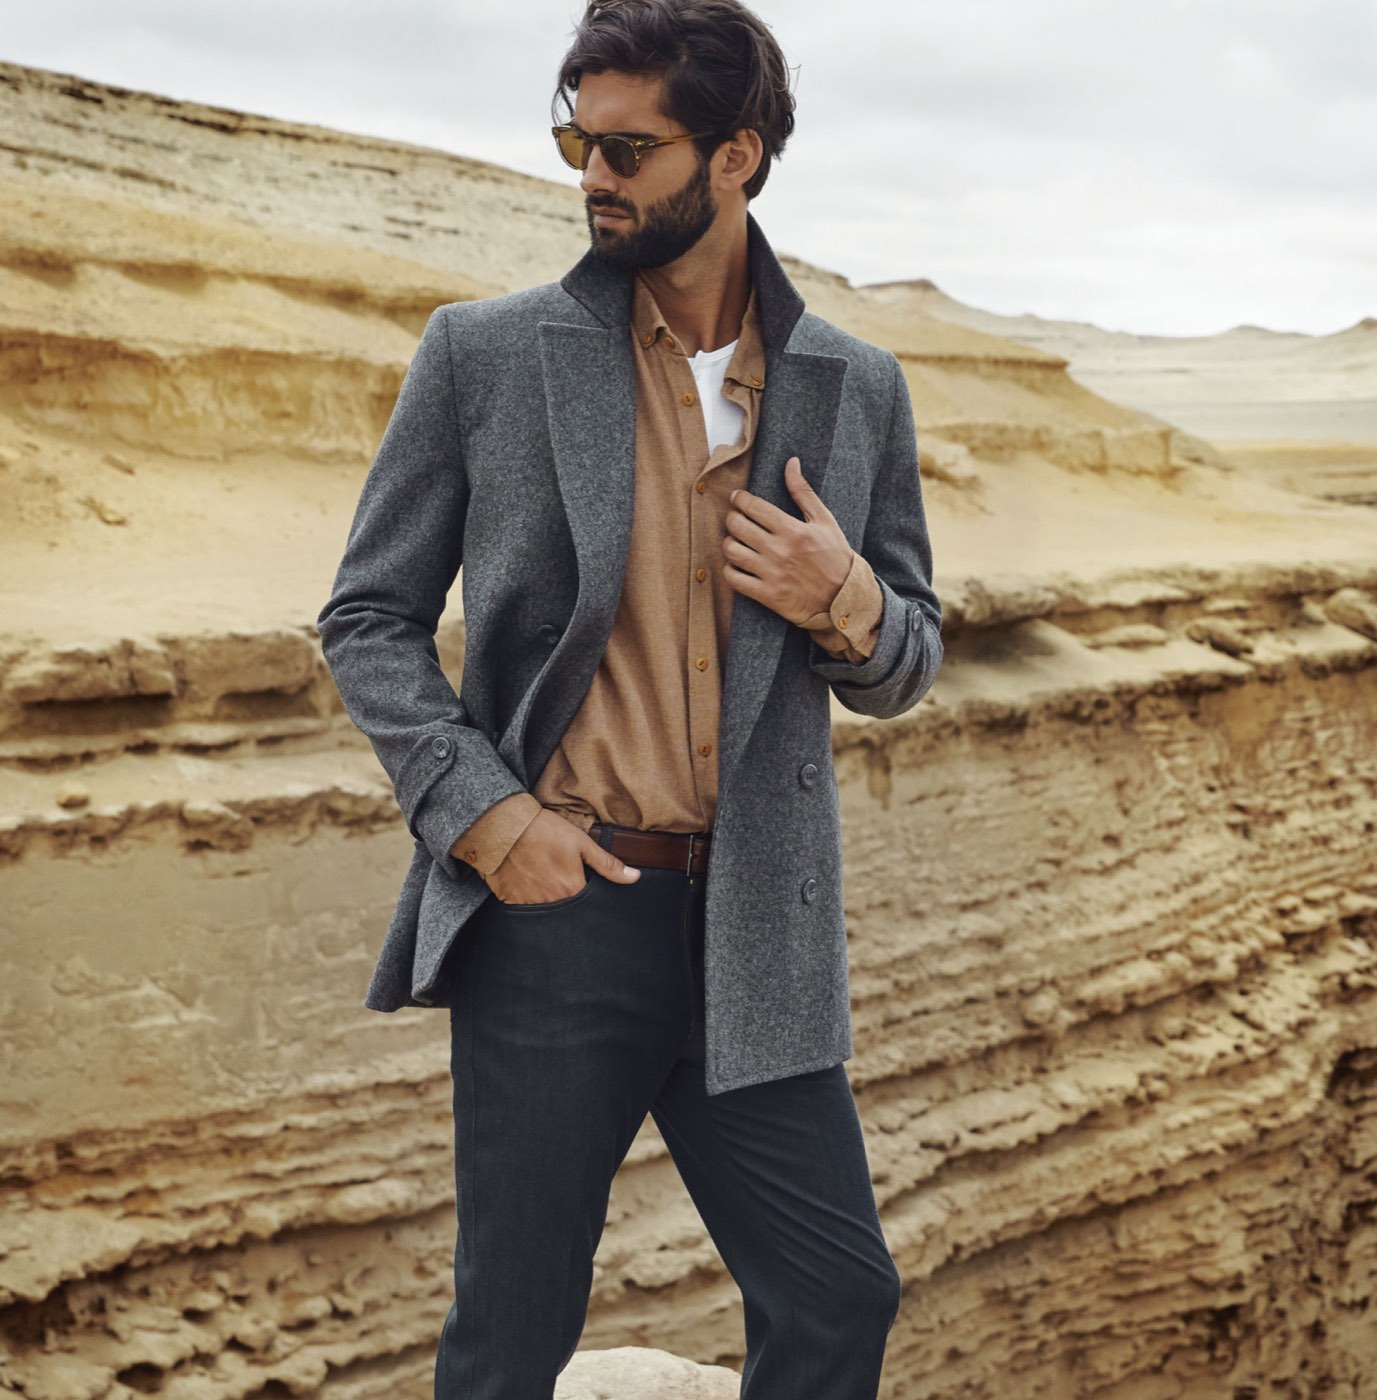
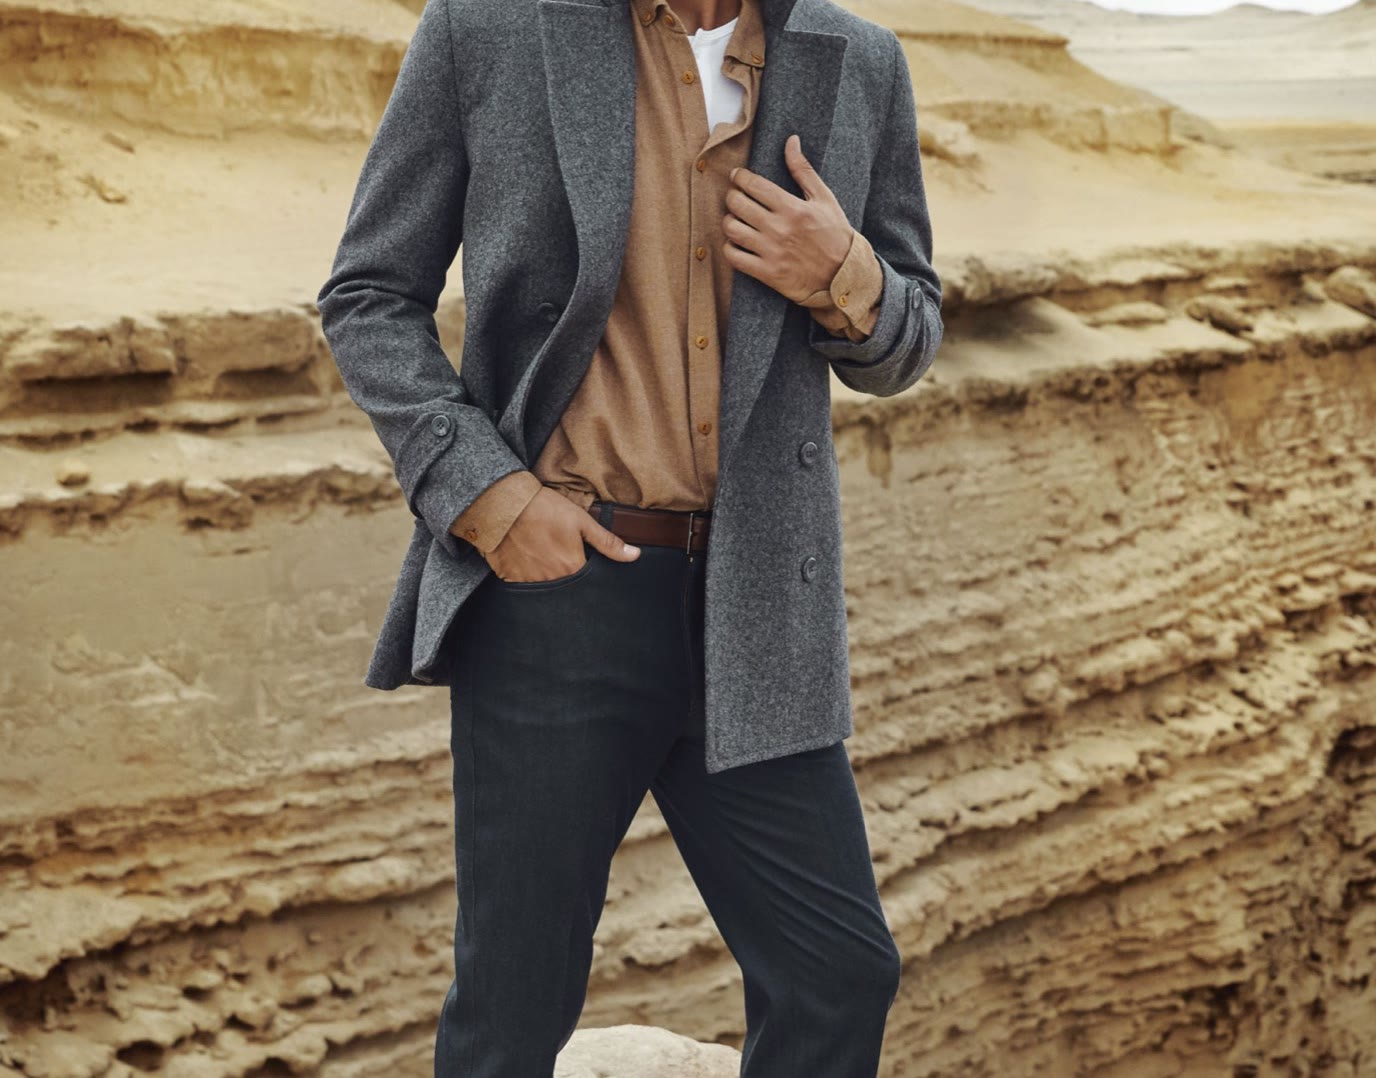
Recortar las cabezas de los modelos de los catálogos de Barrington
Las 14 fotos con persona pasan a mostrar solo la prenda: el corte va
justo bajo el mentón, conservando cuello, solapa y nudo de corbata, que
es lo que interesa de una foto de sastrería. Las tres macros de tejido
no llevan persona y quedan intactas.

El recorte va medido foto a foto, entre el 14% y el 31% del alto según
dónde caiga la barbilla, no con un porcentaje único.

Se actualizan las 17 declaraciones de width/height del HTML: si se
quedan con el alto viejo, el navegador reserva de más y la página salta
al cargar.

diff --git a/index.html b/index.html
@@ -1763,7 +1763,7 @@ body.tema-corporativo {
         <div style="margin-top:2rem;"><a href="/telas" class="enlace" data-ir="telas">Ver las telas</a></div>
       </div>
       <div class="rev" data-d="1">
-        <img src="assets/editorial/ed-blazer-azul.jpg" alt="Blazer azul a medida" loading="lazy" width="1328" height="1400">
+        <img src="assets/editorial/ed-blazer-azul.jpg" alt="Blazer azul a medida" loading="lazy" width="1328" height="1106">
       </div>
     </div>
   </section>
@@ -1897,7 +1897,7 @@ body.tema-corporativo {
       <div class="enc"><span class="rotulo">Diario</span><h2 class="t-xl">Del blog</h2></div>
       <div class="rejilla r3">
         <article class="nota rev" data-ir="blog">
-          <div class="nota-img"><img src="assets/editorial/ed-oficina-azul.jpg" alt="Terno azul a medida" loading="lazy" width="848" height="1400"></div>
+          <div class="nota-img"><img src="assets/editorial/ed-oficina-azul.jpg" alt="Terno azul a medida" loading="lazy" width="848" height="1106"></div>
           <div class="nota-cuerpo doble-filete"><span class="nota-meta">Guías</span><h3>Cómo elegir tu primer traje a medida</h3><p>Qué esperar de tu primera visita a la tienda.</p></div>
         </article>
         <article class="nota rev" data-d="1" data-ir="blog">
@@ -2138,7 +2138,7 @@ body.tema-corporativo {
           <div class="paso"><b>04</b><div><h3>Entrega</h3><p>Recibes la prenda terminada, lista para usar.</p></div></div>
         </div>
       </div>
-      <div class="rev foto-caja" data-d="1"><img src="assets/editorial/ed-oficina-camel.jpg" alt="Terno azul a medida con chaleco camel" loading="lazy" width="1364" height="1400"></div>
+      <div class="rev foto-caja" data-d="1"><img src="assets/editorial/ed-oficina-camel.jpg" alt="Terno azul a medida con chaleco camel" loading="lazy" width="1364" height="1050"></div>
     </div>
   </section>
 
@@ -2151,7 +2151,7 @@ body.tema-corporativo {
 
   <!-- Cierre -->
   <section class="cierre sobre-azul">
-    <img class="cierre-img" src="assets/editorial/ed-abrigo-alpaca.jpg" alt="" loading="lazy" width="990" height="1400">
+    <img class="cierre-img" src="assets/editorial/ed-abrigo-alpaca.jpg" alt="" loading="lazy" width="990" height="1204">
     <div class="cierre-velo"></div>
     <div class="caja cierre-inner">
       <div class="marca-div"><i></i><img src="assets/escudo-blanco.png" alt="" loading="lazy" width="261" height="420"><i></i></div>
@@ -2205,7 +2205,7 @@ body.tema-corporativo {
 
   <section class="seccion fondo-nube">
     <div class="caja dos-col">
-      <div class="rev"><img src="assets/editorial/ed-gala-pinstripe.jpg" alt="Traje cruzado a rayas a medida" loading="lazy" width="990" height="1400"></div>
+      <div class="rev"><img src="assets/editorial/ed-gala-pinstripe.jpg" alt="Traje cruzado a rayas a medida" loading="lazy" width="990" height="1120"></div>
       <div class="rev" data-d="1">
         <div class="marca-div izq"><i></i></div>
         <span class="rotulo">El proceso</span>
@@ -2656,7 +2656,7 @@ body.tema-corporativo {
           <a class="btn btn-linea" href="https://www.google.com/maps/search/?api=1&query=Av.+Primavera+252+Chacarilla+Santiago+de+Surco+Lima" target="_blank" rel="noopener">Cómo llegar</a>
         </div>
       </div>
-      <div class="rev" data-d="1"><img src="assets/editorial/ed-gala-pinstripe.jpg" alt="Traje cruzado a rayas a medida" loading="lazy" width="990" height="1400"></div>
+      <div class="rev" data-d="1"><img src="assets/editorial/ed-gala-pinstripe.jpg" alt="Traje cruzado a rayas a medida" loading="lazy" width="990" height="1120"></div>
     </div>
   </section>
 
@@ -2678,7 +2678,7 @@ body.tema-corporativo {
 <!-- ==================== CORPORATIVO ==================== -->
 <main class="pagina" data-pag="corporativo">
   <section class="pag-hero sobre-azul">
-    <img class="pag-hero-img" src="assets/editorial/ed-oficina-camel.jpg" alt="Vestuario formal a medida" style="object-position:50% 26%;" loading="lazy" width="1364" height="1400">
+    <img class="pag-hero-img" src="assets/editorial/ed-oficina-camel.jpg" alt="Vestuario formal a medida" style="object-position:50% 26%;" loading="lazy" width="1364" height="1050">
     <div class="pag-hero-velo"></div>
     <div class="caja">
       <div class="miga"><a href="/" data-ir="inicio">Inicio</a> · Corporativo</div>
@@ -2713,7 +2713,7 @@ body.tema-corporativo {
 
   <section class="seccion">
     <div class="caja dos-col">
-      <div class="rev"><img src="assets/editorial/ed-blazer-azul.jpg" alt="Blazer azul a medida" loading="lazy" width="1328" height="1400"></div>
+      <div class="rev"><img src="assets/editorial/ed-blazer-azul.jpg" alt="Blazer azul a medida" loading="lazy" width="1328" height="1106"></div>
       <div class="rev" data-d="1">
         <div class="marca-div izq"><i></i></div>
         <span class="rotulo">Coordinación</span>
@@ -2735,7 +2735,7 @@ body.tema-corporativo {
   </section>
 
   <section class="cierre sobre-azul">
-    <img class="cierre-img" src="assets/editorial/ed-abrigos.jpg" alt="" loading="lazy" width="989" height="1400">
+    <img class="cierre-img" src="assets/editorial/ed-abrigos.jpg" alt="" loading="lazy" width="988" height="1204">
     <div class="cierre-velo"></div>
     <div class="caja cierre-inner">
       <div class="marca-div"><i></i><img src="assets/escudo-blanco.png" alt="" loading="lazy" width="261" height="420"><i></i></div>
@@ -2764,7 +2764,7 @@ body.tema-corporativo {
 <!-- ============ CATÁLOGO DE TELAS ============ -->
 <main class="pagina" data-pag="catalogo">
   <section class="pag-hero sobre-azul">
-    <img class="pag-hero-img" src="assets/editorial/ed-sport-cuadros.jpg" alt="Telas para ternos a medida" style="object-position:50% 30%;" loading="lazy" width="990" height="1400">
+    <img class="pag-hero-img" src="assets/editorial/ed-sport-cuadros.jpg" alt="Telas para ternos a medida" style="object-position:50% 30%;" loading="lazy" width="990" height="1092">
     <div class="pag-hero-velo"></div>
     <div class="caja pag-hero-inner">
       <div class="miga"><a href="/" data-ir="inicio">Inicio</a> · <a href="/telas" data-ir="telas">Telas</a> · Catálogo</div>
@@ -2821,7 +2821,7 @@ body.tema-corporativo {
 
 <main class="pagina" data-pag="blog">
   <section class="pag-hero sobre-azul">
-    <img class="pag-hero-img" src="assets/editorial/ed-abrigo-paisaje.jpg" alt="Abrigo de paño a medida" style="object-position:50% 20%;" loading="lazy" width="1377" height="1400">
+    <img class="pag-hero-img" src="assets/editorial/ed-abrigo-paisaje.jpg" alt="Abrigo de paño a medida" style="object-position:50% 20%;" loading="lazy" width="1376" height="1078">
     <div class="pag-hero-velo"></div>
     <div class="caja">
       <div class="miga"><a href="/" data-ir="inicio">Inicio</a> · Blog</div>
@@ -2839,7 +2839,7 @@ body.tema-corporativo {
       </div>
       <div class="rejilla r3">
         <article class="nota rev">
-          <div class="nota-img"><img src="assets/editorial/ed-oficina-azul.jpg" alt="Terno azul a medida" loading="lazy" width="848" height="1400"></div>
+          <div class="nota-img"><img src="assets/editorial/ed-oficina-azul.jpg" alt="Terno azul a medida" loading="lazy" width="848" height="1106"></div>
           <div class="nota-cuerpo doble-filete"><span class="nota-meta">Guías · Próximamente</span><h3>Cómo elegir tu primer traje a medida</h3><p>Qué esperar de tu primera visita y cómo llegar preparado.</p></div>
         </article>
         <article class="nota rev" data-d="1">
@@ -2851,7 +2851,7 @@ body.tema-corporativo {
           <div class="nota-cuerpo doble-filete"><span class="nota-meta">Novios · Próximamente</span><h3>Calendario del novio: cuándo empezar</h3><p>Los tiempos reales para llegar tranquilo al día de la boda.</p></div>
         </article>
         <article class="nota rev">
-          <div class="nota-img"><img src="assets/editorial/ed-gala-pinstripe.jpg" alt="Traje cruzado a rayas" loading="lazy" width="990" height="1400"></div>
+          <div class="nota-img"><img src="assets/editorial/ed-gala-pinstripe.jpg" alt="Traje cruzado a rayas" loading="lazy" width="990" height="1120"></div>
           <div class="nota-cuerpo doble-filete"><span class="nota-meta">Estilo · Próximamente</span><h3>Etiqueta: qué se espera de un código de vestimenta</h3><p>Traducción práctica de lo que dice la invitación.</p></div>
         </article>
         <article class="nota rev" data-d="1">
@@ -2859,7 +2859,7 @@ body.tema-corporativo {
           <div class="nota-cuerpo doble-filete"><span class="nota-meta">Cuidado · Próximamente</span><h3>Cómo cuidar un traje para que dure</h3><p>Colgado, cepillado y descanso: lo que sí funciona.</p></div>
         </article>
         <article class="nota rev" data-d="2">
-          <div class="nota-img"><img src="assets/editorial/ed-blazer-salmon.jpg" alt="Blazer en tono salmón" loading="lazy" width="990" height="1400"></div>
+          <div class="nota-img"><img src="assets/editorial/ed-blazer-salmon.jpg" alt="Blazer en tono salmón" loading="lazy" width="990" height="1064"></div>
           <div class="nota-cuerpo doble-filete"><span class="nota-meta">Estilo · Próximamente</span><h3>Salir del negro sin equivocarse</h3><p>Colores que funcionan en Lima y con qué combinarlos.</p></div>
         </article>
       </div>
@@ -2867,7 +2867,7 @@ body.tema-corporativo {
   </section>
 
   <section class="cierre sobre-azul">
-    <img class="cierre-img" src="assets/editorial/ed-abrigo-tweed.jpg" alt="" loading="lazy" width="990" height="1400">
+    <img class="cierre-img" src="assets/editorial/ed-abrigo-tweed.jpg" alt="" loading="lazy" width="990" height="1162">
     <div class="cierre-velo"></div>
     <div class="caja cierre-inner">
       <div class="marca-div"><i></i><img src="assets/escudo-blanco.png" alt="" loading="lazy" width="261" height="420"><i></i></div>
@@ -2884,7 +2884,7 @@ body.tema-corporativo {
 <!-- ==================== TIENDAS ==================== -->
 <main class="pagina" data-pag="tiendas">
   <section class="pag-hero sobre-azul">
-    <img class="pag-hero-img" src="assets/editorial/ed-abrigos.jpg" alt="Prendas a medida de Andrés Vargas" style="object-position:50% 44%;" loading="lazy" width="989" height="1400">
+    <img class="pag-hero-img" src="assets/editorial/ed-abrigos.jpg" alt="Prendas a medida de Andrés Vargas" style="object-position:50% 44%;" loading="lazy" width="988" height="1204">
     <div class="pag-hero-velo"></div>
     <div class="caja">
       <div class="miga"><a href="/" data-ir="inicio">Inicio</a> · Tiendas</div>
@@ -2939,7 +2939,7 @@ body.tema-corporativo {
   </section>
 
   <section class="cierre sobre-azul">
-    <img class="cierre-img" src="assets/editorial/ed-abrigo-alpaca.jpg" alt="" loading="lazy" width="990" height="1400">
+    <img class="cierre-img" src="assets/editorial/ed-abrigo-alpaca.jpg" alt="" loading="lazy" width="990" height="1204">
     <div class="cierre-velo"></div>
     <div class="caja cierre-inner">
       <div class="marca-div"><i></i><img src="assets/escudo-blanco.png" alt="" loading="lazy" width="261" height="420"><i></i></div>
